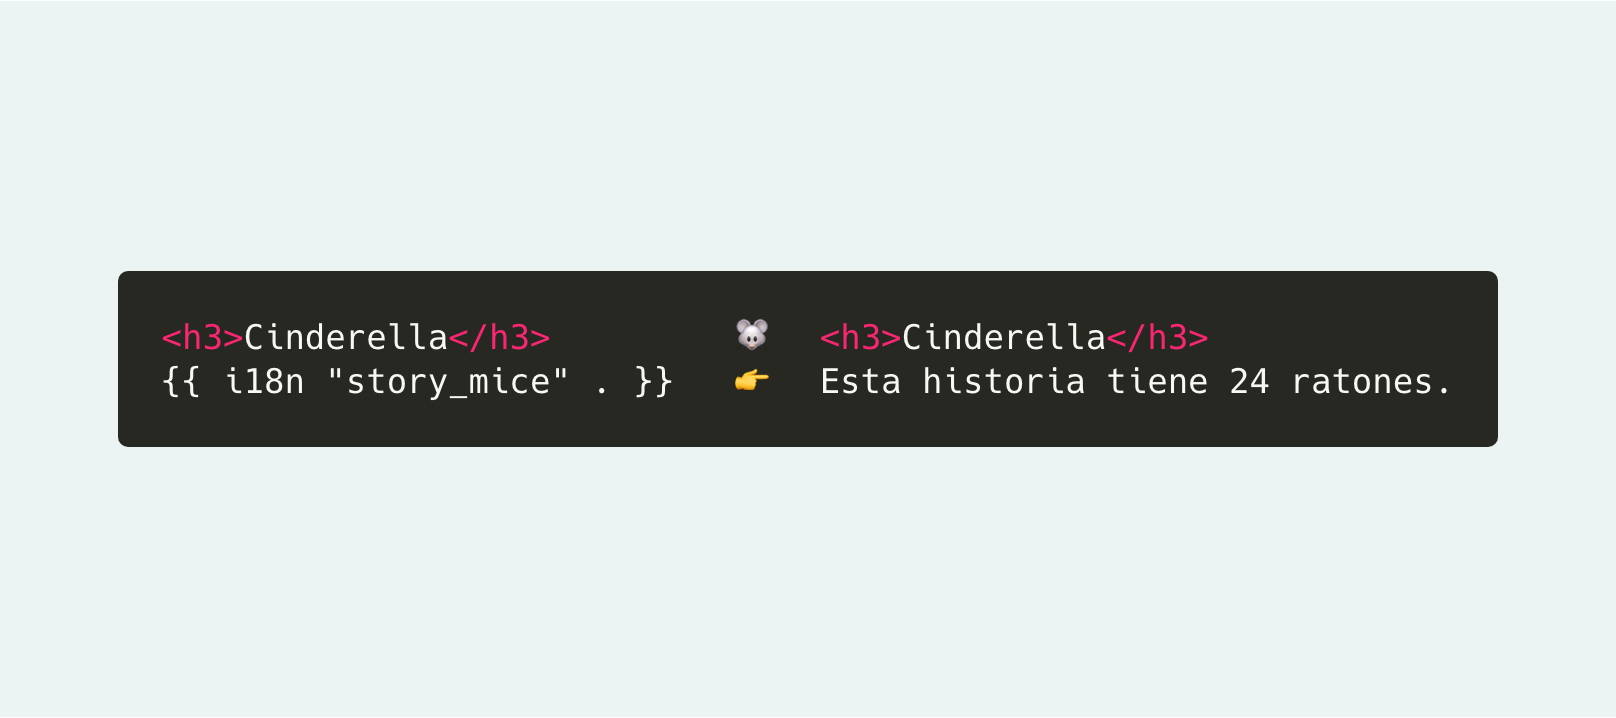
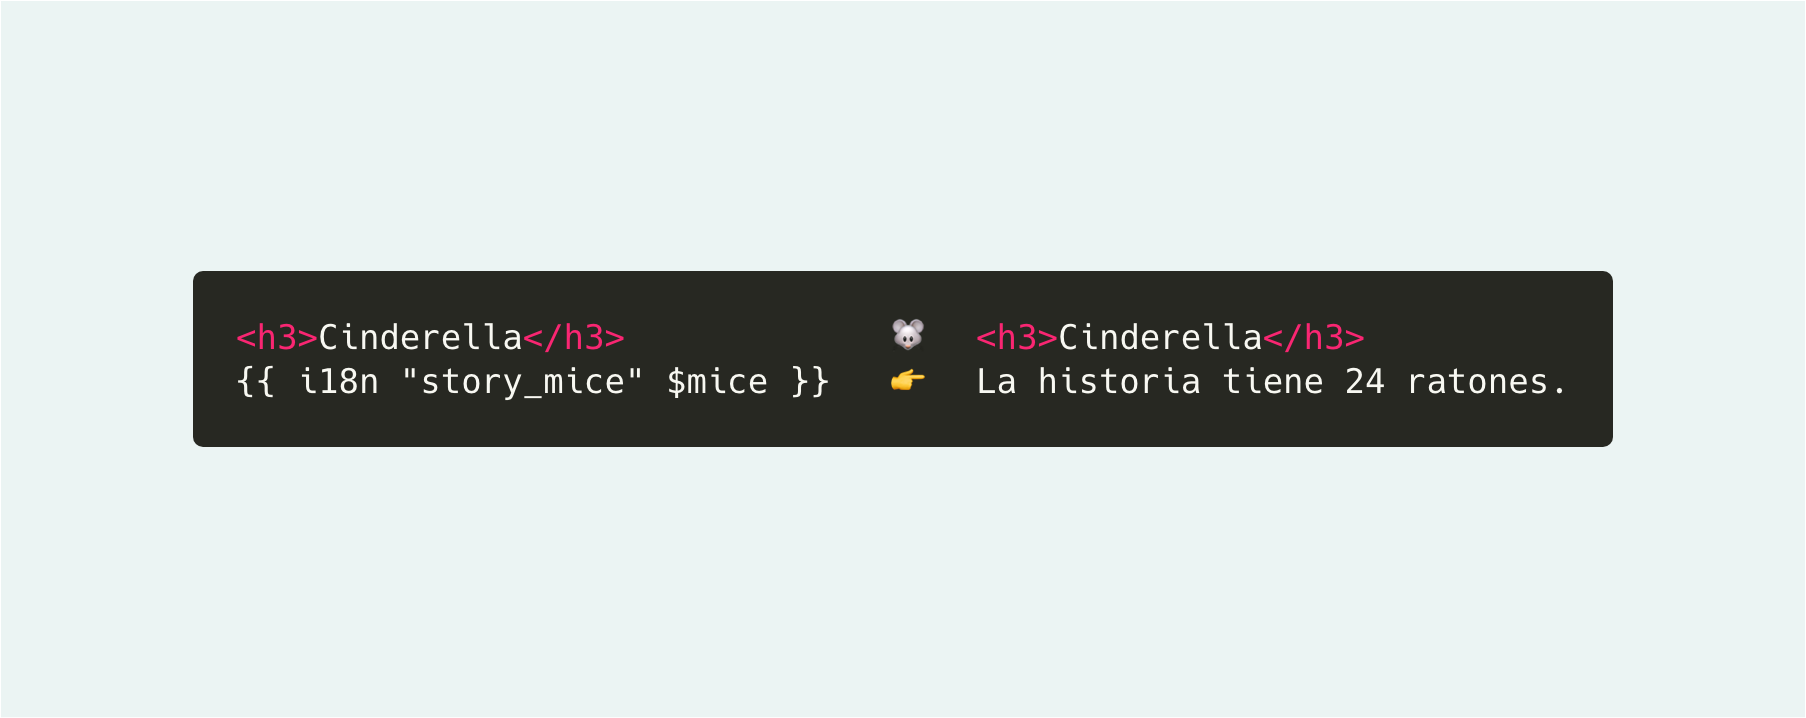
Finalization

Changed region(s): [[0.0619, 0.3677, 0.9282, 0.6435]]

diff --git a/content/post/multilingual-series/part-2/index.md b/content/post/multilingual-series/part-2/index.md
@@ -165,12 +165,12 @@ This story has 1 Mouse.
 
 ### Including the number in the translation
 
-You can even include the number right in your translated string using `.Count`. This avoids comp: (Mind the double quotes)
+You can even include the number right in your translated string using `.Count` and get and merge those two strings into one: (Mind the double quotes)
 
 ```html
 - id: story_mice
   translation:
-    other: This story has "{{ .Count }} Mice"
+    other: "This story has {{ .Count }} Mice"
     one: This story has only one Mouse
 ```
 
@@ -198,7 +198,7 @@ As [explained further down](#hugo-filesystem-and-string-localization), it's a no
 {{% /notice %}}
 ### Including a context in the translation
 
-Instead of an `int` you can also pass a context as a second argument to `i18n`. Here it could save us from splitting an interpolating sentence into serveral localized strings whose order might change in some languages.
+Instead of an `int` you can also pass a context as a second argument to `i18n`. Again this could save us from splitting an interpolating sentence into serveral localized strings even when we need more than `.Count`.
 
 ```yaml
 # i18n/en.yaml
